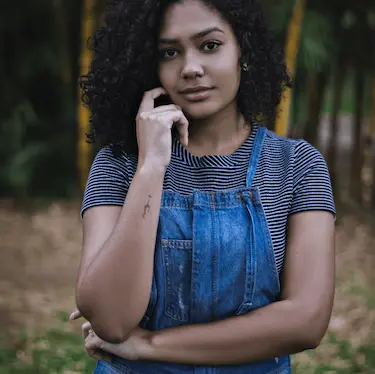
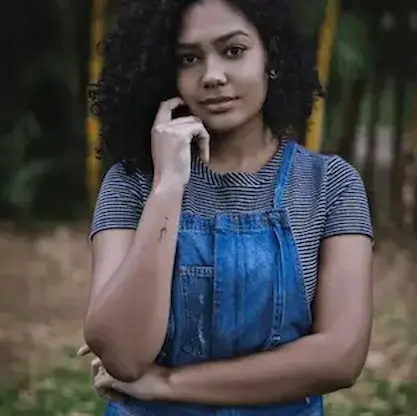
Redimensionner les images / petite modifcation - Rich Snippet

diff --git a/index.html b/index.html
@@ -34,18 +34,21 @@
 
 	<!-- Rich Snippet -->
 	<script type="application/ld+json">
-		{
-			"@content": "https:/:schema.org",
-			"@type": "Person",
-			"name": "Nina Carducci",
-			"address": {
-			"@type": "PostalAddress",
-			"streetAddress": "68 avenue Alsace-Lorraine",
-			"postalCode": "33200",
-			"adressLocality": "Bordeaux"
-			},
+      {
+        "@context": "https://schema.org",
+        "@type": "LocalBusiness",
+        "name": "Nina Carducci",
+		"image": "https://example.com/assets/images/nina.webp",
+        "address": {
+          "@type": "PostalAddress",
+          "streetAddress": "68 avenue Alsace-Lorraine",
+		  "addressLocality": "Bordeaux",
+		  "addressCountry": "FR",
+          "postalCode": "33200"
+        },
 			"telephone": "05 56 67 78 89",
-			"description": "Je réponds au téléphone du lundi au vendredi de 10h à 19h"
+			"priceRange": "€€€",
+			"openingHours": "Mo-Fr 10:00-19:00"
 		}
 	</script>
 </head>
@@ -93,7 +96,7 @@
 </main>
 <section id="about">
 	<div class="picture left">
-		<img src="./assets/images/nina.webp" alt="Portrait de la photographe Nina Carducci" width="375" height="374">
+		<img src="./assets/images/nina.webp" alt="Portrait de la photographe Nina Carducci" width="311" height="310">
 	</div>
 	<div id="about-me">
 		<h2 class="about-me__title">A propos de moi</h2>
